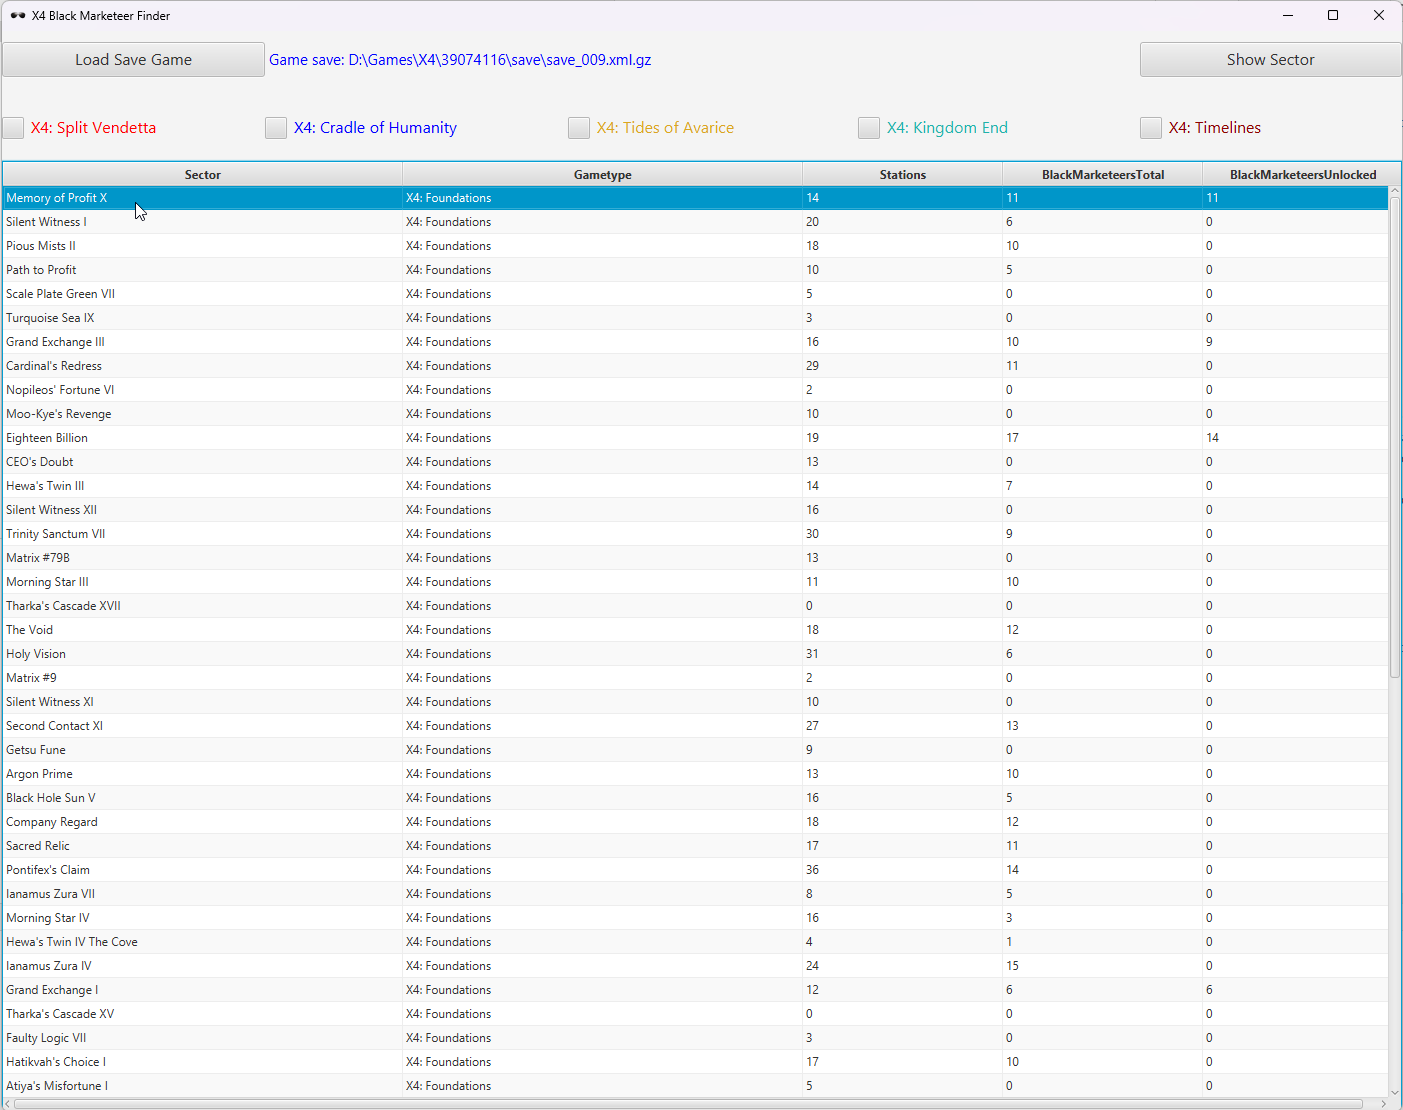
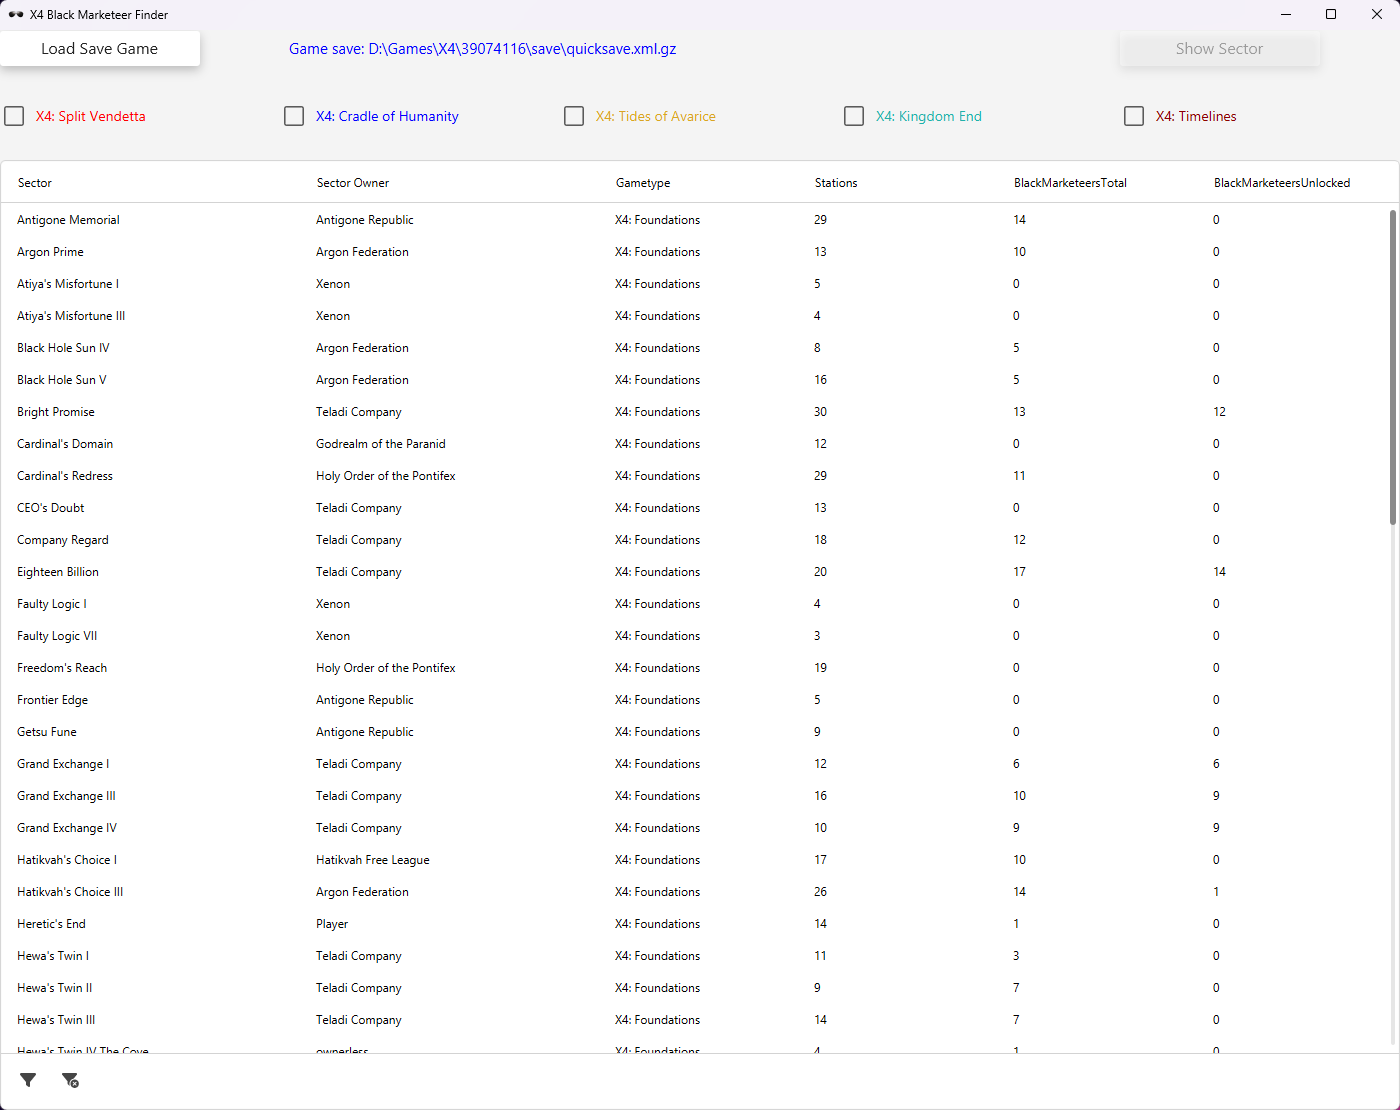
#15 added module info, smaller fixes and UI improvements, updated READMEs

diff --git a/src/main/java/eu/foxxbl/x4/gameparser/shady/ui/controller/MainWindow.java b/src/main/java/eu/foxxbl/x4/gameparser/shady/ui/controller/MainWindow.java
@@ -99,10 +99,34 @@ public class MainWindow {
   @FXML
   public void initialize() {
     initializeLoadFileButton();
-
-    initializeMapSectorTable();
-
     initializeShowSectorButton();
+    initializeCheckboxes();
+    initializeTableColumns();
+    initializeTableView();
+    observableMapSectorList = FXCollections.observableArrayList(mapSectorList);
+    filterData();
+  }
+
+  private void initializeLoadFileButton() {
+    loadFileButton.setOnAction(e -> {
+      FileChooser fileChooser = new FileChooser();
+      fileChooser.setTitle("Open Save Game File");
+      fileChooser.setSelectedExtensionFilter(new FileChooser.ExtensionFilter("X4 Game Save", "*.xml.gz"));
+      this.selectedFile = fileChooser.showOpenDialog(window);
+      if (selectedFile != null) {
+        ParseSaveGameTask task = createParseSaveGameTask(selectedFile);
+        progressBar.progressProperty().bind(task.progressProperty());
+        progressBar.setVisible(true);
+        selectedFilePathLabel.setText(" Game save: " + selectedFile.getAbsolutePath());
+        selectedFilePathLabel.setBorder(Border.EMPTY);
+        Thread thread = new Thread(task);
+        thread.setDaemon(true);
+        thread.start();
+      } else {
+        selectedFilePathLabel.setText("No file selected");
+        selectedFilePathLabel.setBorder(Border.EMPTY);
+      }
+    });
   }
 
   private void initializeShowSectorButton() {
@@ -110,8 +134,20 @@ public class MainWindow {
     showSector.setOnAction(e -> showSectorDialog());
   }
 
-  private void initializeMapSectorTable() {
+  private void initializeCheckboxes() {
+    splitCb.setSelected(false);
+    terranCb.setSelected(false);
+    pirateCb.setSelected(false);
+    boronCb.setSelected(false);
+    timelinesCb.setSelected(false);
+    splitCb.setOnAction(event -> filterData());
+    terranCb.setOnAction(event -> filterData());
+    pirateCb.setOnAction(event -> filterData());
+    boronCb.setOnAction(event -> filterData());
+    timelinesCb.setOnAction(event -> filterData());
+  }
 
+  private void initializeTableColumns() {
     sectorNameTableCol.setComparator(Comparator.comparing(MapSector::sectorName));
     sectorOwnerTableCol.setComparator(Comparator.comparing(MapSector::sectorOwnerName));
     mapTypeTableCol.setComparator(Comparator.comparing(MapSector::getMapTypeFullName));
@@ -125,9 +161,9 @@ public class MainWindow {
     stationNrTableCol.setRowCellFactory(mapSector -> new MFXTableRowCell<>(MapSector::stationTotal));
     shadyGuysTotalTableCol.setRowCellFactory(mapSector -> new MFXTableRowCell<>(MapSector::blackMarketeersTotal));
     shadyGuysUnlockedTableCol.setRowCellFactory(mapSector -> new MFXTableRowCell<>(MapSector::blackMarketeersUnlocked));
+  }
 
-
-    observableMapSectorList = FXCollections.observableArrayList(mapSectorList);
+  private void initializeTableView() {
     sectorTableView.getSelectionModel().setAllowsMultipleSelection(false);
     sectorTableView.getSelectionModel().selectionProperty().addListener((observable, oldValue, newValue) -> {
       showSector.setDisable(newValue == null);
@@ -135,17 +171,12 @@ public class MainWindow {
         selectedMapSector = newValue.values().stream().findFirst().get();
       }
     });
+    var filters = List.of(new StringFilter<>("Sector name", MapSector::sectorName), new StringFilter<>("Sector owner", MapSector::sectorOwnerName),
+        new IntegerFilter<>("Nr of stations", MapSector::stationTotal), new IntegerFilter<>("Nr of black marketeers", MapSector::blackMarketeersTotal),
+        new IntegerFilter<>("Unlocked black marketeers", MapSector::blackMarketeersUnlocked));
     sectorTableView.setFooterVisible(false);
-    sectorTableView.getFilters().addAll(
-        new StringFilter<>("Sector name", MapSector::sectorName),
-        new StringFilter<>("Sector owner", MapSector::sectorOwnerName),
-        new IntegerFilter<>("Nr of stations", MapSector::stationTotal),
-        new IntegerFilter<>("Nr of black marketeers", MapSector::blackMarketeersTotal),
-        new IntegerFilter<>("Unlocked black marketeers", MapSector::blackMarketeersUnlocked)
-
-    );
-
-    sectorTableView.setTableRowFactory( mapSector -> {
+    sectorTableView.getFilters().addAll(filters);
+    sectorTableView.setTableRowFactory(mapSector -> {
       MFXTableRow<MapSector> row = new MFXTableRow<>(sectorTableView, mapSector) {
         @Override
         public void updateItem(MapSector mapSector) {
@@ -165,7 +196,7 @@ public class MainWindow {
           }
         }
 
-         @Override
+        @Override
         protected void updateRow(MapSector mapSector) {
           super.updateRow(mapSector);
 
@@ -193,21 +224,8 @@ public class MainWindow {
       });
       return row;
     });
-
-    splitCb.setSelected(false);
-    terranCb.setSelected(false);
-    pirateCb.setSelected(false);
-    boronCb.setSelected(false);
-    timelinesCb.setSelected(false);
-    filterData();
-    splitCb.setOnAction(event -> filterData());
-    terranCb.setOnAction(event -> filterData());
-    pirateCb.setOnAction(event -> filterData());
-    boronCb.setOnAction(event -> filterData());
-    timelinesCb.setOnAction(event -> filterData());
-    progressBar.setVisible(false);
-
   }
+
 
   private void filterData() {
     Set<MapType> allowedMapTypes = new HashSet<>();
@@ -234,28 +252,7 @@ public class MainWindow {
     sectorTableView.update();
   }
 
-  private void initializeLoadFileButton() {
 
-    loadFileButton.setOnAction(e -> {
-      FileChooser fileChooser = new FileChooser();
-      fileChooser.setTitle("Open Save Game File");
-      fileChooser.setSelectedExtensionFilter(new FileChooser.ExtensionFilter("X4 Game Save", "*.xml.gz"));
-      this.selectedFile = fileChooser.showOpenDialog(window);
-      if (selectedFile != null) {
-        ParseSaveGameTask task = createParseSaveGameTask(selectedFile);
-        progressBar.progressProperty().bind(task.progressProperty());
-        progressBar.setVisible(true);
-        selectedFilePathLabel.setText(" Game save: " + selectedFile.getAbsolutePath());
-        selectedFilePathLabel.setBorder(Border.EMPTY);
-        Thread thread = new Thread(task);
-        thread.setDaemon(true);
-        thread.start();
-      } else {
-        selectedFilePathLabel.setText("No file selected");
-        selectedFilePathLabel.setBorder(Border.EMPTY);
-      }
-    });
-  }
 
   private ParseSaveGameTask createParseSaveGameTask(File selectedFile) {
     ParseSaveGameTask parseSaveGameTask = new ParseSaveGameTask(gameParsingService, mapSectorService, selectedFile, shadySearchConfig.maxSectors());
@@ -293,6 +290,7 @@ public class MainWindow {
   }
 
   private static class MapSectorCellFactory extends MFXListCell<MapSector> {
+
     private final MFXFontIcon userIcon;
 
     public MapSectorCellFactory(MFXListView<MapSector> listView, MapSector data) {
@@ -306,7 +304,9 @@ public class MainWindow {
     @Override
     protected void render(MapSector data) {
       super.render(data);
-      if (userIcon != null) getChildren().add(0, userIcon);
+      if (userIcon != null) {
+        getChildren().addFirst(userIcon);
+      }
     }
   }
 

diff --git a/src/main/java/eu/foxxbl/x4/gameparser/shady/ui/controller/SectorDialog.java b/src/main/java/eu/foxxbl/x4/gameparser/shady/ui/controller/SectorDialog.java
@@ -91,7 +91,7 @@ public class SectorDialog {
     stationMacro.setRowCellFactory(mapSector -> new MFXTableRowCell<>(BlackMarketeer::getStationMacro));
     blackMarketeerName.setRowCellFactory(mapSector -> new MFXTableRowCell<>(BlackMarketeer::getName));
     voiceLeaks.setRowCellFactory(mapSector -> new MFXTableRowCell<>(BlackMarketeer::getVoiceLeaks));
-    status.setRowCellFactory(mapSector -> new MFXTableRowCell<>(BlackMarketeer::getStatus));
+    status.setRowCellFactory(mapSector -> new MFXTableRowCell<>(BlackMarketeer::getStatusName));
 
     ObservableList<BlackMarketeer> observableMapSectorList = FXCollections.observableArrayList(blackMarketeerList);
     blackMarketeerTable.setItems(observableMapSectorList);

diff --git a/src/main/java/module-info.java b/src/main/java/module-info.java
@@ -1,0 +1,15 @@
+module shady.search {
+  requires jakarta.persistence;
+  requires jakarta.xml.bind;
+  requires java.xml;
+  requires javafx.controls;
+  requires javafx.fxml;
+  requires MaterialFX;
+  requires net.rgielen.fxweaver.core;
+  requires org.slf4j;
+  requires spring.boot;
+  requires spring.boot.autoconfigure;
+  requires spring.context;
+  requires static lombok;
+
+}

diff --git a/src/main/java/eu/foxxbl/x4/gameparser/shady/model/parse/BlackMarketeer.java b/src/main/java/eu/foxxbl/x4/gameparser/shady/model/parse/BlackMarketeer.java
@@ -17,4 +17,8 @@ public class BlackMarketeer {
   private int voiceLeaks;
   private String name;
 
+  public String getStatusName() {
+    return status.getValue();
+  }
+
 }

diff --git a/src/test/java/eu/foxxbl/x4/gameparser/shady/ShadySearchApplicationTests.java b/src/test/java/eu/foxxbl/x4/gameparser/shady/ShadySearchApplicationTests.java
@@ -8,6 +8,7 @@ class ShadySearchApplicationTests {
 
   @Test
   void contextLoads() {
+    //ignore
   }
 
 }

diff --git a/src/test/module-info.java b/src/test/module-info.java
@@ -1,0 +1,4 @@
+module shady.search.test {
+  requires spring.boot.test;
+
+}

diff --git a/README.md b/README.md
@@ -14,10 +14,13 @@ UI for parsing the X4: Foundations game saves to allow easier search for Black M
    * Number of stations in sector
    * Total number of black marketeers in the sector
    * Number of unlocked black marketeer vendors
-* Enable sectors coming from DLCs with the corresponding checkboxes.
-* Sector table can be sorted by all columns.
+* To show DLC sectors, enable it with the corresponding checkboxes.
 
-![X4 Black Markeeer Finder main](images/X4BlackMarketeerFinder-Main.png)
+   ![X4 Black Markeeer Finder main](images/X4BlackMarketeerFinder-Main.png)
+
+* Sector table can be sorted by all columns and filtered with the controls on the bottom left side of the table:
+  ![X4 Black Markeeer Finder filter](images/X4BlackMarketeerFinder-Filtering.png)
+
 
 * To display the detailed information about the stations and Black Market vendors, select the sector to display the data and click on the "Show Sector" button, or just double-click on the row.
 * In the displayed dialog, tool shows the stations in the sector, names and the status of black marketeers on them:

diff --git a/README-development.md b/README-development.md
@@ -2,6 +2,7 @@
 
 - Application is based on Spring Boot 3.3, Java and JavaFX 21
 - It uses JavaFX-Weaver for dependency injection support for JavaFX and FXML
+- Themed using material design from MaterialFX
 - javafx plugin adds required JavaFx dependencies to the created boot jar based on the current os platform
 - jpackage plugin creates the installation package(s)
 - sector names and macros are stored into HSQLDB embedded databases (a bit overkill atm but will be required if application will support translation).
@@ -47,6 +48,9 @@ Note - increase the version each time as update won't rewrite existing version
 JWeaver:
 - https://github.com/rgielen/javafx-weaver
 
+MaterialFX:
+- https://github.com/palexdev/MaterialFX
+
 JavaFx Gradle plugin:
 - https://github.com/openjfx/javafx-gradle-plugin
 
@@ -59,3 +63,4 @@ Windows installer package (required for JPackage on Windows):
 
 JavaFx Scene builder:
 - https://gluonhq.com/products/scene-builder/
+
